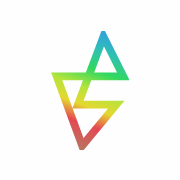
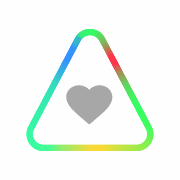
Новый логотип: скруглённый треугольник с сердцем
Знак по макету: скруглённый треугольник со спектральной обводкой
(цвет меняется по кругу вокруг центра) и серым сердцем внутри.
Генератор src/lib/mark.mjs — один источник для логотипа на сайте
и для иконок; npm run brand пересобирает favicon, иконку iOS,
logo-mark.png и og.jpg. Описание знака обновлено в дизайн-системе.

Changed region(s): [[0.1389, 0.1389, 0.8611, 0.8611]]

diff --git a/docs/EMILIUS-DESIGN-SYSTEM.md b/docs/EMILIUS-DESIGN-SYSTEM.md
@@ -40,11 +40,13 @@
 
 Получается **годовой цикл создания продукта**, сжатый в один оборот за 156 секунд. Эту связь «неделя ↔ сектор ↔ этап» нельзя терять ни при каком редизайне.
 
-### 1.3 Знак (логотип)
-- Два **открытых треугольника**: верхний смотрит вверх, нижний вниз. Их соединяет горизонтальный зигзаг. Вместе получается молния, буква «Э»/«S» или стрелки «вверх-вниз», то есть итерация.
-- Обводка без заливки, толщина ≈ 1/12 высоты знака, окрашена **спектральным градиентом по контуру**: верхний треугольник идёт зелёный → бирюзовый → голубой, нижний жёлто-лаймовый → красный → терракотовый.
-- Словесная часть написана кириллицей: **«Эмилиус [знак] Эдженси»**. Знак стоит между словами. Всё лежит в белой «таблетке» 230×60, radius 20, border 1px #ECECEC **[точно]**.
+### 1.3 Знак (логотип) — версия сентября 2026
+- **Скруглённый треугольник** вершиной вверх, внутри — **серое сердце** `#A7A7A7`. Треугольник — направление и рост, сердце — «внимание» из центра колеса: мы делаем продукты с заботой о людях.
+- Обводка без заливки, толщина ≈ 3% высоты знака, углы скруглены. Цвет обводки меняется **по кругу вокруг центра**, как спектр колеса: зелёный на вершине, красный справа сверху, жёлтый внизу, синий слева.
+- Словесная часть написана кириллицей: **«Эмилиус [знак] Эдженси»**. Знак стоит между словами, высота знака ≈ 1,7 размера шрифта. Всё лежит в светлой «таблетке», radius 20, border 1px #ECECEC.
 - Радуга в знаке = полный круг и все этапы. Поэтому радуга живёт **только** в знаке, колесе и фоне. Кнопки и текст её не получают.
+- Исходник в коде: `src/lib/mark.mjs` (генератор SVG). Эталонный макет: `docs/assets/logo-2026-09.png`. Иконки и картинка для соцсетей собираются командой `npm run brand`.
+- Прежний знак (два треугольника, соединённые зигзагом) — в `docs/assets/logo-mark.png`, для истории.
 
 ---
 
@@ -324,7 +326,7 @@ loop: бесконечно
 
 КОМПОНЕНТЫ: Primary — bg #00999B, r13, текст слева, чёрная иконка Telegram справа. Secondary — белая с 1px #00999B, на hover заливается teal за 0.2s. Кейс-карточка: скриншот → «Платформа — ниша» → «что сделали, цифры» → domain ↗. Тени без смещения. Анимации только спокойные (fade .2s, color .2s, медленное вращение).
 
-ЛОГОТИП: «Эмилиус [знак] Эдженси» в белой таблетке r20, 1px #ECECEC. Знак — два открытых треугольника (вверх и вниз), соединённые зигзагом-молнией, обводка со спектральным градиентом.
+ЛОГОТИП: «Эмилиус [знак] Эдженси» в белой таблетке r20, 1px #ECECEC. Знак — скруглённый треугольник вершиной вверх с серым сердцем внутри; обводка меняет цвет по кругу: зелёный сверху, красный справа, жёлтый снизу, синий слева.
 
 ТОН: русский, тёплый, уверенный, коротко, цифры в кейсах, эмодзи точечно. «Знаем, как надо!»
 
@@ -334,7 +336,8 @@ loop: бесконечно
 ---
 
 ## Приложение: ассеты рядом с документом
-- `assets/logo-mark.png` — знак 55×84
+- `assets/logo-2026-09.png` — эталон текущего логотипа
+- `assets/logo-mark.png` — прежний знак 55×84
 - `assets/bg-spectrum.jpg` — фон 1680×1182
 - `assets/wheel/1…7-*.png` — исходные слои колеса в порядке наложения
 - `assets/reference-frames/` — эталонные кадры: главный экран, колесо, кейс-тултип, hover кнопок, логотип

diff --git a/design/PORT-TO-PEN.md b/design/PORT-TO-PEN.md
@@ -56,13 +56,13 @@
 | `CardTitle` | текст `text.card.title` по центру, отступ сверху 16 | — |
 | `ButtonPrimary` | 152×54, радиус 13, фон `color.teal.button`, текст белый слева, иконка Telegram справа | обычная, наведение |
 | `ButtonSecondary` | то же, фон card, обводка 1px teal | обычная, наведение — заливка и обводка `color.teal.button` |
-| `LogoPill` | 230×60, радиус 20, обводка 1px hairline, «Эмилиус» + знак 27×41 + «Эдженси» | — |
+| `LogoPill` | радиус 20, обводка 1px hairline, «Эмилиус» + знак 34×33 + «Эдженси» | — |
 | `ProjectIcon` | круг 52, белый, тень icon, логотип клиента 34 | обычный, активный |
 | `CaseCard` | 260 шир., радиус 10, тень pop: скриншот, «платформа — ниша», «что сделали», ссылка `домен ↗` | — |
 | `VoiceButton` | круг 100, градиент `#28655E → #617170`, иконка волны, подпись «Говорить» | покой, слушает |
 | `Eyebrow` | текст `text.eyebrow`, цвет teal.text | — |
 
-Знак логотипа: два открытых треугольника (вверх и вниз), соединённые зигзагом, обводка 4.5 со спектральным градиентом сверху вниз: синий → бирюза → зелёный → лайм → жёлтый → красный → терракота.
+Знак логотипа: скруглённый треугольник вершиной вверх (радиус углов ≈ 11% высоты), обводка ≈ 3% высоты, серое сердце `#A7A7A7` чуть ниже центра. Цвет обводки меняется по кругу вокруг центра: зелёный на вершине → красный справа сверху → зелёный → жёлтый внизу → мятный → синий слева → зелёный. Эталон: `docs/assets/logo-2026-09.png`, точная геометрия — `src/lib/mark.mjs`.
 
 ## 3. Колесо продукта
 

diff --git a/README.md b/README.md
@@ -18,6 +18,16 @@ npm run preview # посмотреть собранное
 - `src/styles/tokens.css` — те же значения в коде. Менять цвета и радиусы только здесь.
 - `docs/assets/` — исходники логотипа, фона и слоёв старого колеса.
 
+## Логотип и иконки
+
+Знак генерируется в `src/lib/mark.mjs` — и для логотипа на сайте, и для иконок. После правки знака:
+
+```bash
+npm run build && npm run brand
+```
+
+Команда пересоберёт favicon, иконку для iOS, `brand/logo-mark.png` и картинку для соцсетей `og.jpg` (нужен установленный Google Chrome).
+
 ## Структура
 
 - `src/data/site.ts` — миссия, ссылки, номер итерации, четыре этапа цикла.
